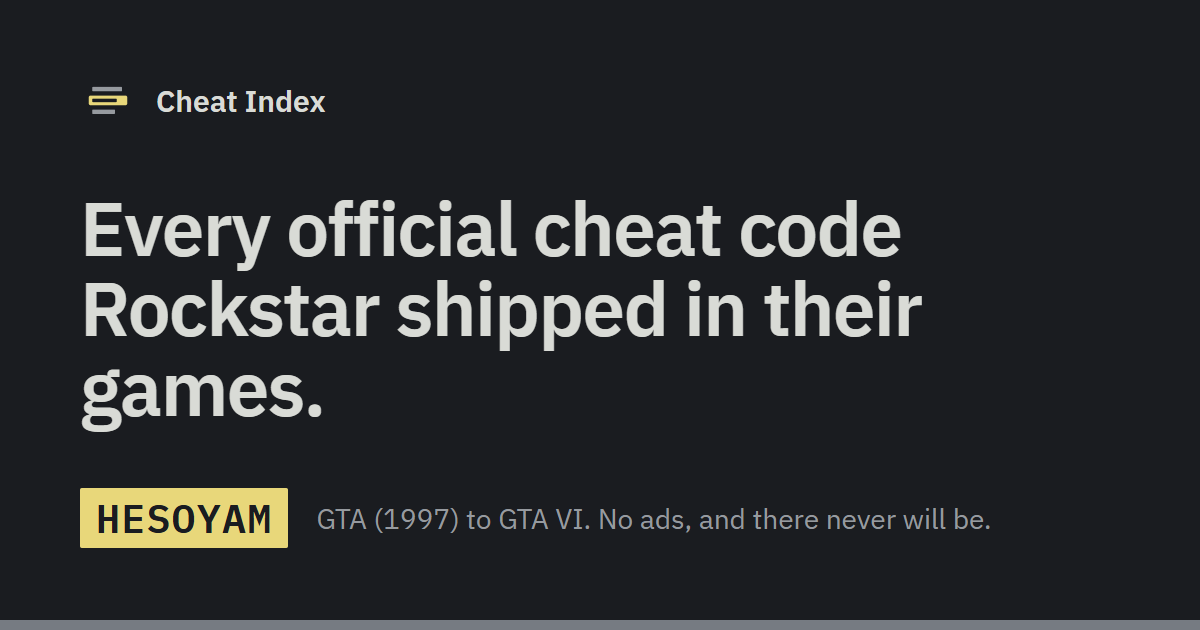
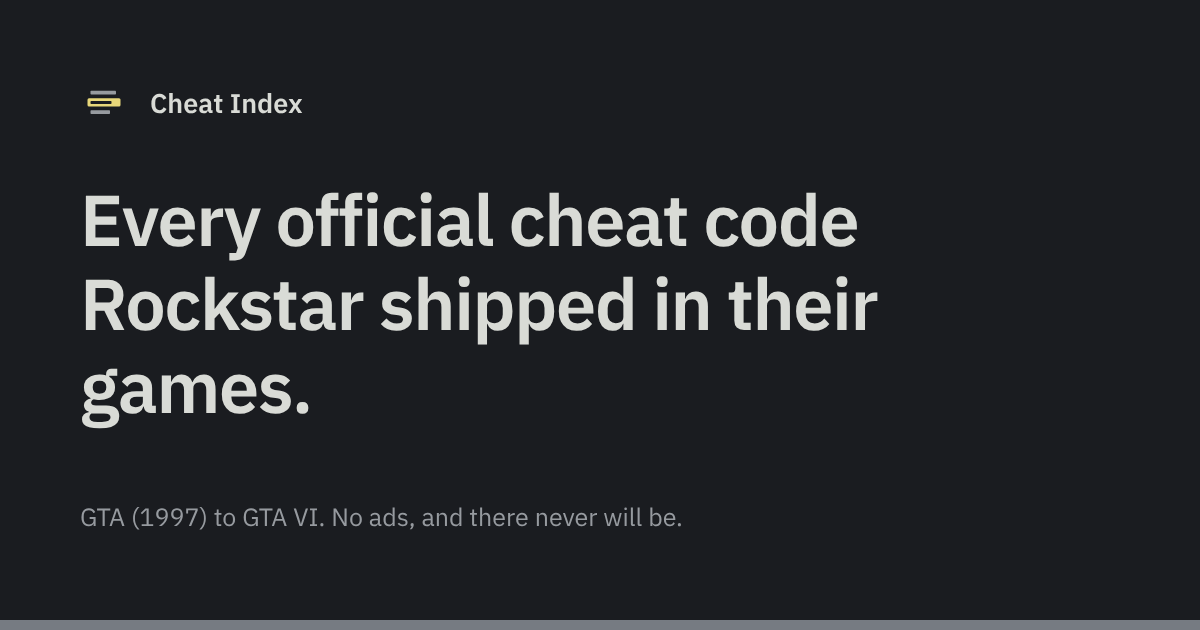
Take the cheat code out of the link preview image
og.png no longer shows HESOYAM: just the logo, headline and tagline.
Its address gets ?v=2 so X and Discord fetch the new one. CLAUDE.md now
says no cheat codes in any link preview.

Claude-Session: https://claude.ai/code/session_01G7azZM9HvG9PJvms5r8Aj3

diff --git a/index.html b/index.html
@@ -16,7 +16,7 @@
 <link rel="icon" href="assets/icon.svg" type="image/svg+xml">
 <link rel="apple-touch-icon" href="assets/apple-touch-icon.png">
 <link rel="manifest" href="manifest.webmanifest">
-<meta property="og:image" content="https://nbdbatman.github.io/Rockstar-Cheat-Index/assets/og.png">
+<meta property="og:image" content="https://nbdbatman.github.io/Rockstar-Cheat-Index/assets/og.png?v=2">
 <meta property="og:image:width" content="1200">
 <meta property="og:image:height" content="630">
 <meta property="og:image:alt" content="Cheat Index: every official cheat code Rockstar shipped in their games.">

diff --git a/CLAUDE.md b/CLAUDE.md
@@ -90,10 +90,12 @@ On combo tabs, once the browser has seen a gamepad, each cheat gets a Practise b
 
 Every page has a `<script id="discord:component-embed">` in its `<head>`: a Components V2 layout Discord shows instead of the plain Open Graph card (spec: discord-api-docs, `developers/link-previews/component-embeds.mdx`). Discord doesn't run JavaScript, which is why each game has its own page. `build_pages.py` writes them all:
 
-- `game_embed()`, for game pages: "Cheat Index" with the site logo, the game's title and a one-line description, its cover, then a button per platform plus All games and Report a wrong code, and a one-line unofficial note. The owner chose no codes, warnings or TBD counts in it, so keep them out.
+- `game_embed()`, for game pages: "Cheat Index" with the site logo, the game's title and a one-line description, its cover, then a button per platform plus All games and Report a wrong code, and a one-line unofficial note. The owner chose no warnings or TBD counts in it.
 - `home_embed()`, for `index.html` between its BEGIN/END markers: title and logo, four covers, the cheat and game counts, three buttons and the unofficial note.
 
-Keep each under 3,000 bytes and 40 components, with link buttons only and the Open Graph tags kept as the fallback. The data check enforces the limits. Test with Discord's Embed Debugger (https://discord.com/developers/embeds). Discord caches previews for about 30 minutes, so add `?v=2` to see a change.
+No cheat codes in any link preview: not in the Discord embeds, Open Graph text or `assets/og.png`. The owner asked for this. When you replace `og.png`, bump its `?v=` in index.html's `og:image` so X and Discord fetch the new one.
+
+Keep each embed under 3,000 bytes and 40 components, with link buttons only and the Open Graph tags kept as the fallback. The data check enforces the limits. Test with Discord's Embed Debugger (https://discord.com/developers/embeds). Discord caches previews for about 30 minutes, so add `?v=2` to see a change.
 
 ## Offline cache
 
